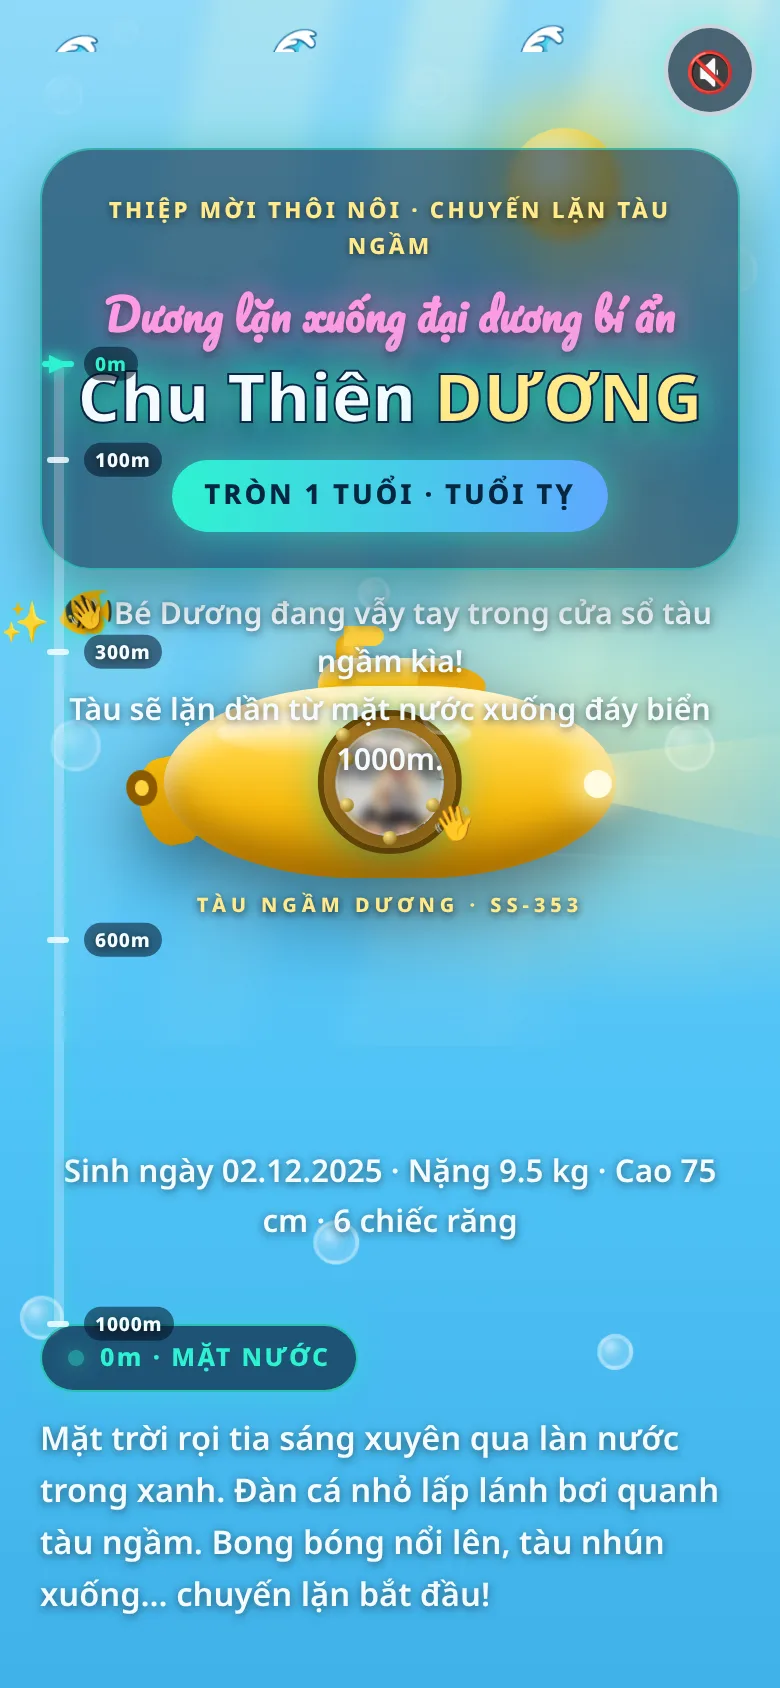
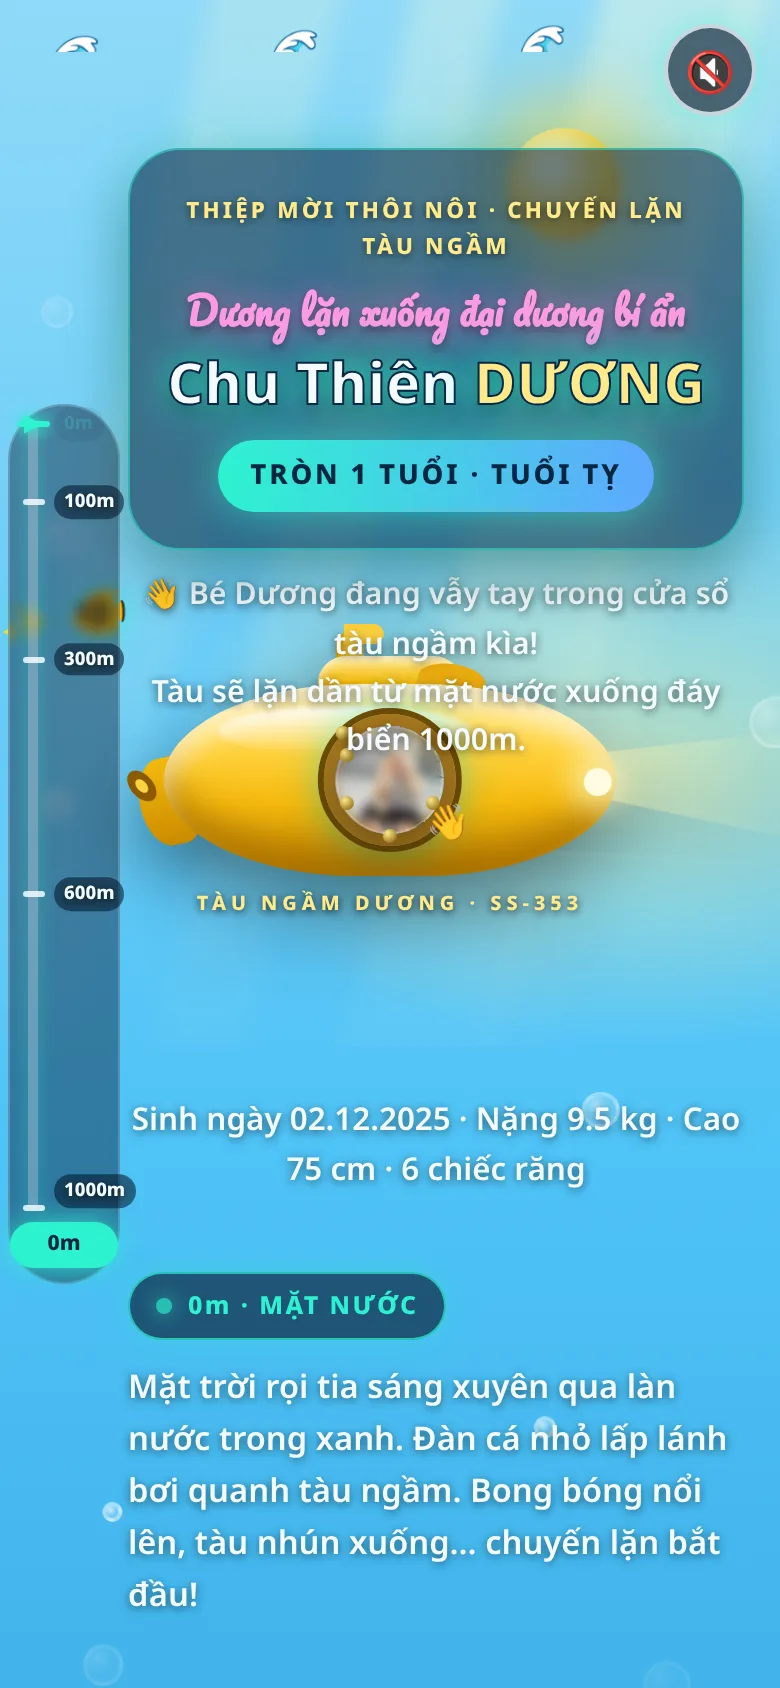
gen 353: sua cot moc do sau - thu gon thanh vien nang rieng, chuong noi dung sang phai, so do sau xuong day vien, mo nhan gan mui ten

diff --git a/products/Invitation/Other/gen_353_tau-ngam-dai-duong-bi-an/index.html b/products/Invitation/Other/gen_353_tau-ngam-dai-duong-bi-an/index.html
@@ -53,16 +53,17 @@ img{max-width:100%}
 .bubbles-fixed i{position:absolute;bottom:-30px;border-radius:50%;border:2px solid rgba(255,255,255,.55);background:radial-gradient(circle at 32% 30%,rgba(255,255,255,.75),rgba(255,255,255,.06) 55%);box-shadow:inset -3px -4px 6px rgba(255,255,255,.25);animation:bubbleRise linear infinite}
 @keyframes bubbleRise{from{transform:translateY(0) translateX(0);opacity:0}12%{opacity:.9}to{transform:translateY(-112vh) translateX(18px);opacity:0}}
 /* ---------- Đồng hồ độ sâu ---------- */
-.gauge{position:fixed;left:6px;top:50%;transform:translateY(-50%);z-index:20;width:46px;height:min(62vh,480px);display:flex;flex-direction:column;align-items:center;pointer-events:none}
-.gauge .g-track{position:relative;flex:1;width:5px;border-radius:99px;background:rgba(244,251,255,.28);box-shadow:0 0 8px rgba(46,242,208,.35)}
+.gauge{position:fixed;left:4px;top:50%;transform:translateY(-50%);z-index:20;width:56px;height:min(56vh,440px);display:flex;flex-direction:column;align-items:flex-start;pointer-events:none;background:rgba(5,20,40,.42);border:1px solid rgba(244,251,255,.2);border-radius:99px;padding:9px 0 7px;backdrop-filter:blur(3px)}
+.gauge .g-track{position:relative;flex:1;width:5px;margin-left:9px;border-radius:99px;background:rgba(244,251,255,.28);box-shadow:0 0 8px rgba(46,242,208,.35)}
 .gauge .g-fill{position:absolute;left:0;top:0;width:100%;height:0%;border-radius:99px;background:linear-gradient(180deg,#2EF2D0,#B388FF,#FF6FD8)}
 .gauge .g-tick{position:absolute;left:50%;transform:translate(-50%,-50%);width:11px;height:3px;border-radius:2px;background:rgba(244,251,255,.85)}
 .gauge .g-tick.on{background:var(--teal);box-shadow:0 0 8px var(--teal);width:16px}
-.gauge .g-label{position:absolute;left:15px;transform:translateY(-50%);font-family:var(--font-head);font-weight:800;font-size:.6rem;letter-spacing:.4px;color:var(--ivory);text-shadow:0 1px 4px rgba(0,0,0,.7);white-space:nowrap;background:rgba(5,20,40,.55);padding:1px 6px;border-radius:99px}
+.gauge .g-label{position:absolute;left:13px;transform:translateY(-50%);font-family:var(--font-head);font-weight:800;font-size:.58rem;letter-spacing:0;color:var(--ivory);text-shadow:0 1px 4px rgba(0,0,0,.7);white-space:nowrap;background:rgba(5,20,40,.55);padding:1px 5px;border-radius:99px;transition:opacity .2s}
 .gauge .g-label.on{color:var(--teal)}
+.gauge .g-label.dim{opacity:.12}
 .gauge .g-marker{position:absolute;left:50%;top:0%;transform:translate(-50%,-50%);z-index:2;display:flex;align-items:center}
 .gauge .g-marker::before{content:"▶";font-size:.7rem;color:var(--teal);text-shadow:0 0 8px var(--teal)}
-.gauge .g-read{position:absolute;left:28px;top:50%;transform:translateY(-50%);font-family:var(--font-head);font-weight:800;font-size:.68rem;color:#06263F;background:var(--teal);border-radius:99px;padding:2px 7px;box-shadow:0 0 14px rgba(46,242,208,.8);white-space:nowrap}
+.gauge .g-read{width:100%;margin-top:7px;text-align:center;font-family:var(--font-head);font-weight:800;font-size:.66rem;color:#06263F;background:var(--teal);border-radius:99px;padding:3px 0;box-shadow:0 0 14px rgba(46,242,208,.8);white-space:nowrap}
 /* ---------- Nút loa ---------- */
 #soundBtn{position:fixed;top:calc(12px + env(safe-area-inset-top));right:12px;z-index:30;width:46px;height:46px;border-radius:50%;border:2px solid rgba(244,251,255,.75);background:rgba(5,20,40,.62);backdrop-filter:blur(4px);color:#fff;font-size:1.25rem;display:flex;align-items:center;justify-content:center;box-shadow:0 0 16px rgba(46,242,208,.45)}
 #soundBtn[aria-pressed="true"]{background:rgba(46,242,208,.28);border-color:var(--teal)}
@@ -98,8 +99,8 @@ img{max-width:100%}
 .sub .sub-name{position:absolute;left:50%;bottom:-22px;transform:translateX(-50%);font-family:var(--font-head);font-weight:800;font-size:.62rem;letter-spacing:2.5px;color:#FFE98A;text-shadow:0 1px 4px rgba(0,0,0,.8);white-space:nowrap}
 /* ---------- Bố cục các tầng ---------- */
 main{position:relative;z-index:10}
-section{position:relative;min-height:100svh;padding:calc(66px + env(safe-area-inset-top)) 20px 34px;display:flex;flex-direction:column}
-.sec-top,.sec-bottom{position:relative;z-index:2}
+section{position:relative;min-height:100svh;padding:calc(66px + env(safe-area-inset-top)) 18px 34px 64px;display:flex;flex-direction:column}
+.sec-top,.sec-bottom{position:relative;z-index:2;min-width:0}
 .sec-mid{flex:1;min-height:150px}
 .depth-pill{display:inline-flex;align-items:center;gap:8px;background:rgba(5,20,40,.62);border:1.5px solid rgba(46,242,208,.7);color:var(--teal);border-radius:99px;padding:6px 13px;font-family:var(--font-head);font-weight:800;font-size:.78rem;letter-spacing:1.2px;box-shadow:0 0 16px rgba(46,242,208,.3)}
 .depth-pill .dot{width:8px;height:8px;border-radius:50%;background:var(--teal);box-shadow:0 0 10px var(--teal);animation:blinkDot 1.6s ease-in-out infinite}
@@ -115,8 +116,8 @@ h2.sec-title{font-family:var(--font-head);font-weight:800;text-transform:upperca
 #s0{justify-content:flex-start}
 #s0 .hero-card{margin-top:8px;text-align:center;background:rgba(6,38,63,.58);border:1.5px solid rgba(46,242,208,.5);border-radius:26px;padding:22px 16px 18px;box-shadow:0 0 30px rgba(46,242,208,.25),0 12px 30px rgba(0,0,0,.35);backdrop-filter:blur(3px)}
 #s0 .eyebrow{font-family:var(--font-head);font-weight:800;font-size:.7rem;letter-spacing:1.6px;color:#FFE98A;text-shadow:0 1px 4px rgba(0,0,0,.6)}
-#s0 .theme{font-family:var(--font-note);font-size:1.35rem;line-height:1.5;color:#FF9BE4;text-shadow:0 0 16px rgba(255,111,216,.7),0 2px 5px rgba(0,0,0,.5);margin-top:8px}
-.baby-name{font-family:var(--font-name);font-weight:800;font-size:clamp(1.7rem,8.6vw,2.3rem);line-height:1.15;white-space:nowrap;color:var(--ivory);-webkit-text-stroke:1px #0B2545;text-shadow:0 0 14px rgba(46,242,208,.95),0 0 36px rgba(46,242,208,.6),0 3px 8px rgba(0,0,0,.55);margin:6px 0 2px}
+#s0 .theme{font-family:var(--font-note);font-size:1.18rem;white-space:nowrap;line-height:1.5;color:#FF9BE4;text-shadow:0 0 16px rgba(255,111,216,.7),0 2px 5px rgba(0,0,0,.5);margin-top:8px}
+.baby-name{font-family:var(--font-name);font-weight:800;font-size:clamp(1.5rem,7.4vw,2rem);line-height:1.15;white-space:nowrap;color:var(--ivory);-webkit-text-stroke:1px #0B2545;text-shadow:0 0 14px rgba(46,242,208,.95),0 0 36px rgba(46,242,208,.6),0 3px 8px rgba(0,0,0,.55);margin:6px 0 2px}
 .baby-name .last{color:#FFE98A}
 .age-badge{display:inline-block;margin-top:10px;background:linear-gradient(90deg,#2EF2D0,#5EA8FF);color:#06263F;border-radius:99px;padding:7px 16px;font-family:var(--font-head);font-weight:800;font-size:.86rem;letter-spacing:1.4px;box-shadow:0 0 20px rgba(46,242,208,.6)}
 #s0 .born{margin-top:10px;font-size:.98rem}
@@ -272,7 +273,7 @@ h2.sec-title{font-family:var(--font-head);font-weight:800;text-transform:upperca
 .lightbox .lb-close{position:absolute;top:calc(14px + env(safe-area-inset-top));right:14px;width:44px;height:44px;border-radius:50%;border:2px solid #fff;background:rgba(5,20,40,.8);color:#fff;font-size:1.2rem}
 @media (min-width:520px){
   section{max-width:480px;margin:0 auto}
-  .gauge{left:calc(50% - 262px)}
+  .gauge{left:calc(50% - 236px)}
 }
 @media (prefers-reduced-motion:reduce){
   *,*::before,*::after{animation-duration:.01ms !important;animation-iteration-count:1 !important;transition-duration:.01ms !important}
@@ -296,9 +297,10 @@ h2.sec-title{font-family:var(--font-head);font-weight:800;text-transform:upperca
     <span class="g-tick" data-d="100" style="top:10%"></span><span class="g-label" data-d="100" style="top:10%">100m</span>
     <span class="g-tick" data-d="300" style="top:30%"></span><span class="g-label" data-d="300" style="top:30%">300m</span>
     <span class="g-tick" data-d="600" style="top:60%"></span><span class="g-label" data-d="600" style="top:60%">600m</span>
-    <span class="g-tick" data-d="1000" style="top:100%"></span><span class="g-label" data-d="1000" style="top:100%">1000m</span>
-    <div class="g-marker" id="gMarker"><span class="g-read" id="gRead">0m</span></div>
+    <span class="g-tick" data-d="1000" style="top:100%"></span><span class="g-label" data-d="1000" style="top:100%;transform:translateY(-100%)">1000m</span>
+    <div class="g-marker" id="gMarker"></div>
   </div>
+  <div class="g-read" id="gRead">0m</div>
 </div>
 
 <button id="soundBtn" type="button" aria-pressed="false" aria-label="Bật hoặc tắt âm thanh">🔇</button>
@@ -617,6 +619,7 @@ h2.sec-title{font-family:var(--font-head);font-weight:800;text-transform:upperca
   var gFill=document.getElementById('gFill'), gMarker=document.getElementById('gMarker'),
       gRead=document.getElementById('gRead'), rays=document.getElementById('rays'),
       ticks=Array.prototype.slice.call(document.querySelectorAll('.g-tick,.g-label')),
+      labels=Array.prototype.slice.call(document.querySelectorAll('.g-label')),
       tickDepths=[0,100,300,600,1000], ticking=false;
   function onScroll(){
     if(ticking) return; ticking=true;
@@ -628,11 +631,11 @@ h2.sec-title{font-family:var(--font-head);font-weight:800;text-transform:upperca
       gFill.style.height=(p*100)+'%';
       gMarker.style.top=(p*100)+'%';
       gRead.textContent=depth+'m';
-      gRead.style.visibility=depth<25?'hidden':'visible';
       rays.style.opacity=Math.max(0,1-p*1.6);
       var nearest=tickDepths[0],best=1e9;
       tickDepths.forEach(function(d){var diff=Math.abs(depth-d);if(diff<best){best=diff;nearest=d;}});
       ticks.forEach(function(el){el.classList.toggle('on',Number(el.getAttribute('data-d'))===nearest);});
+      labels.forEach(function(el){el.classList.toggle('dim',Math.abs(depth-Number(el.getAttribute('data-d')))<45);});
     });
   }
   window.addEventListener('scroll',onScroll,{passive:true}); onScroll();
